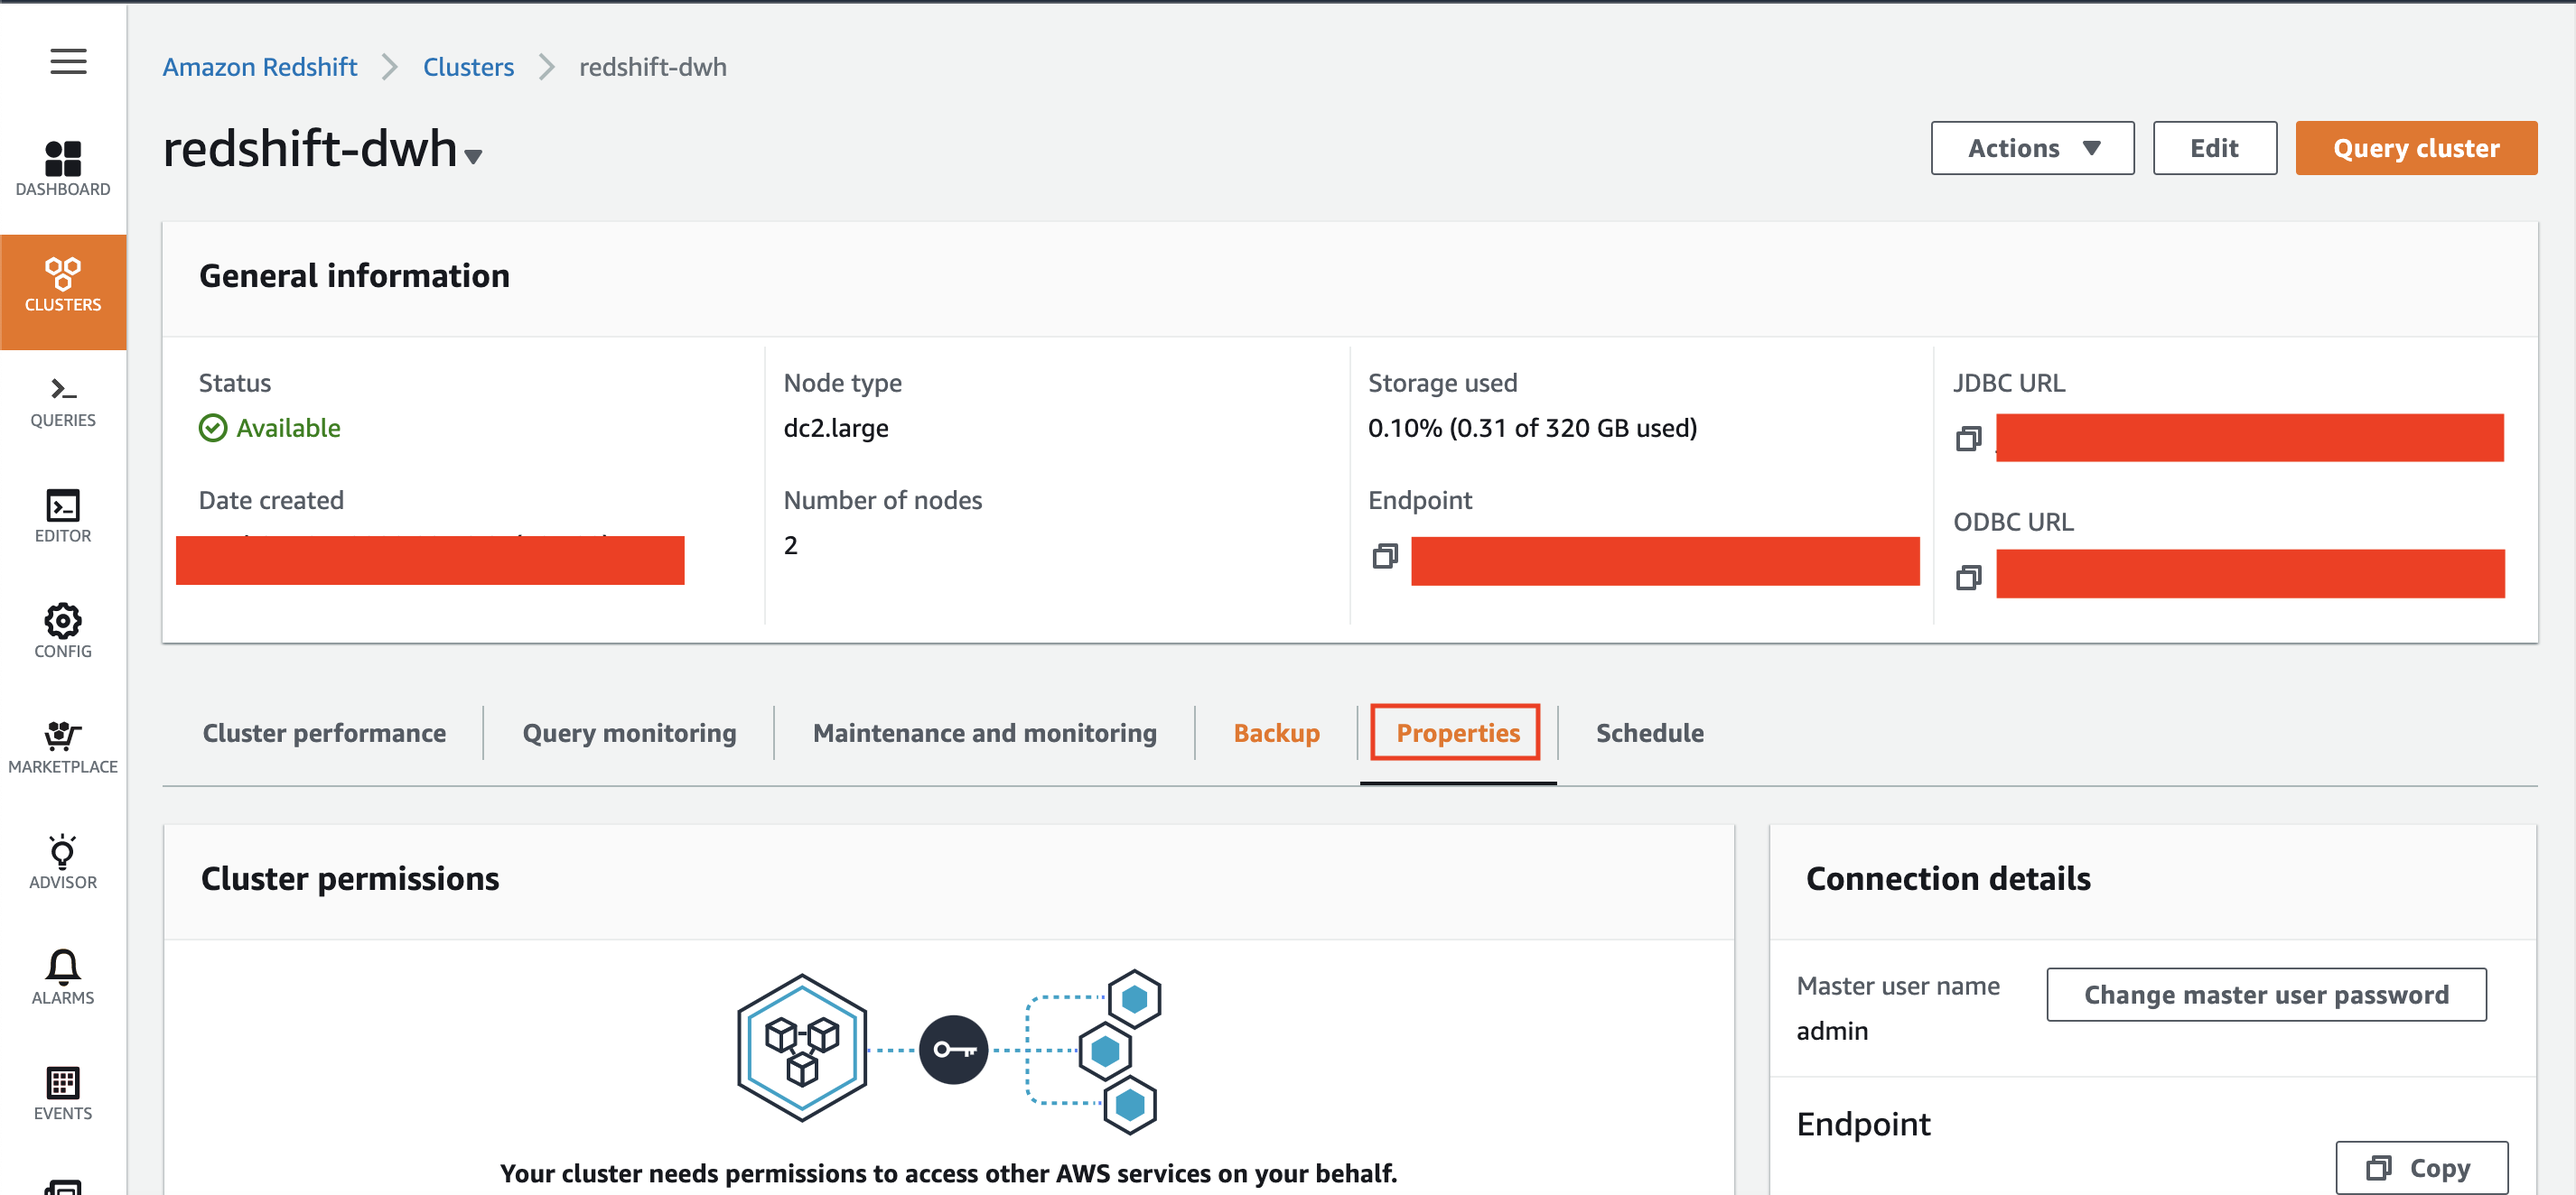
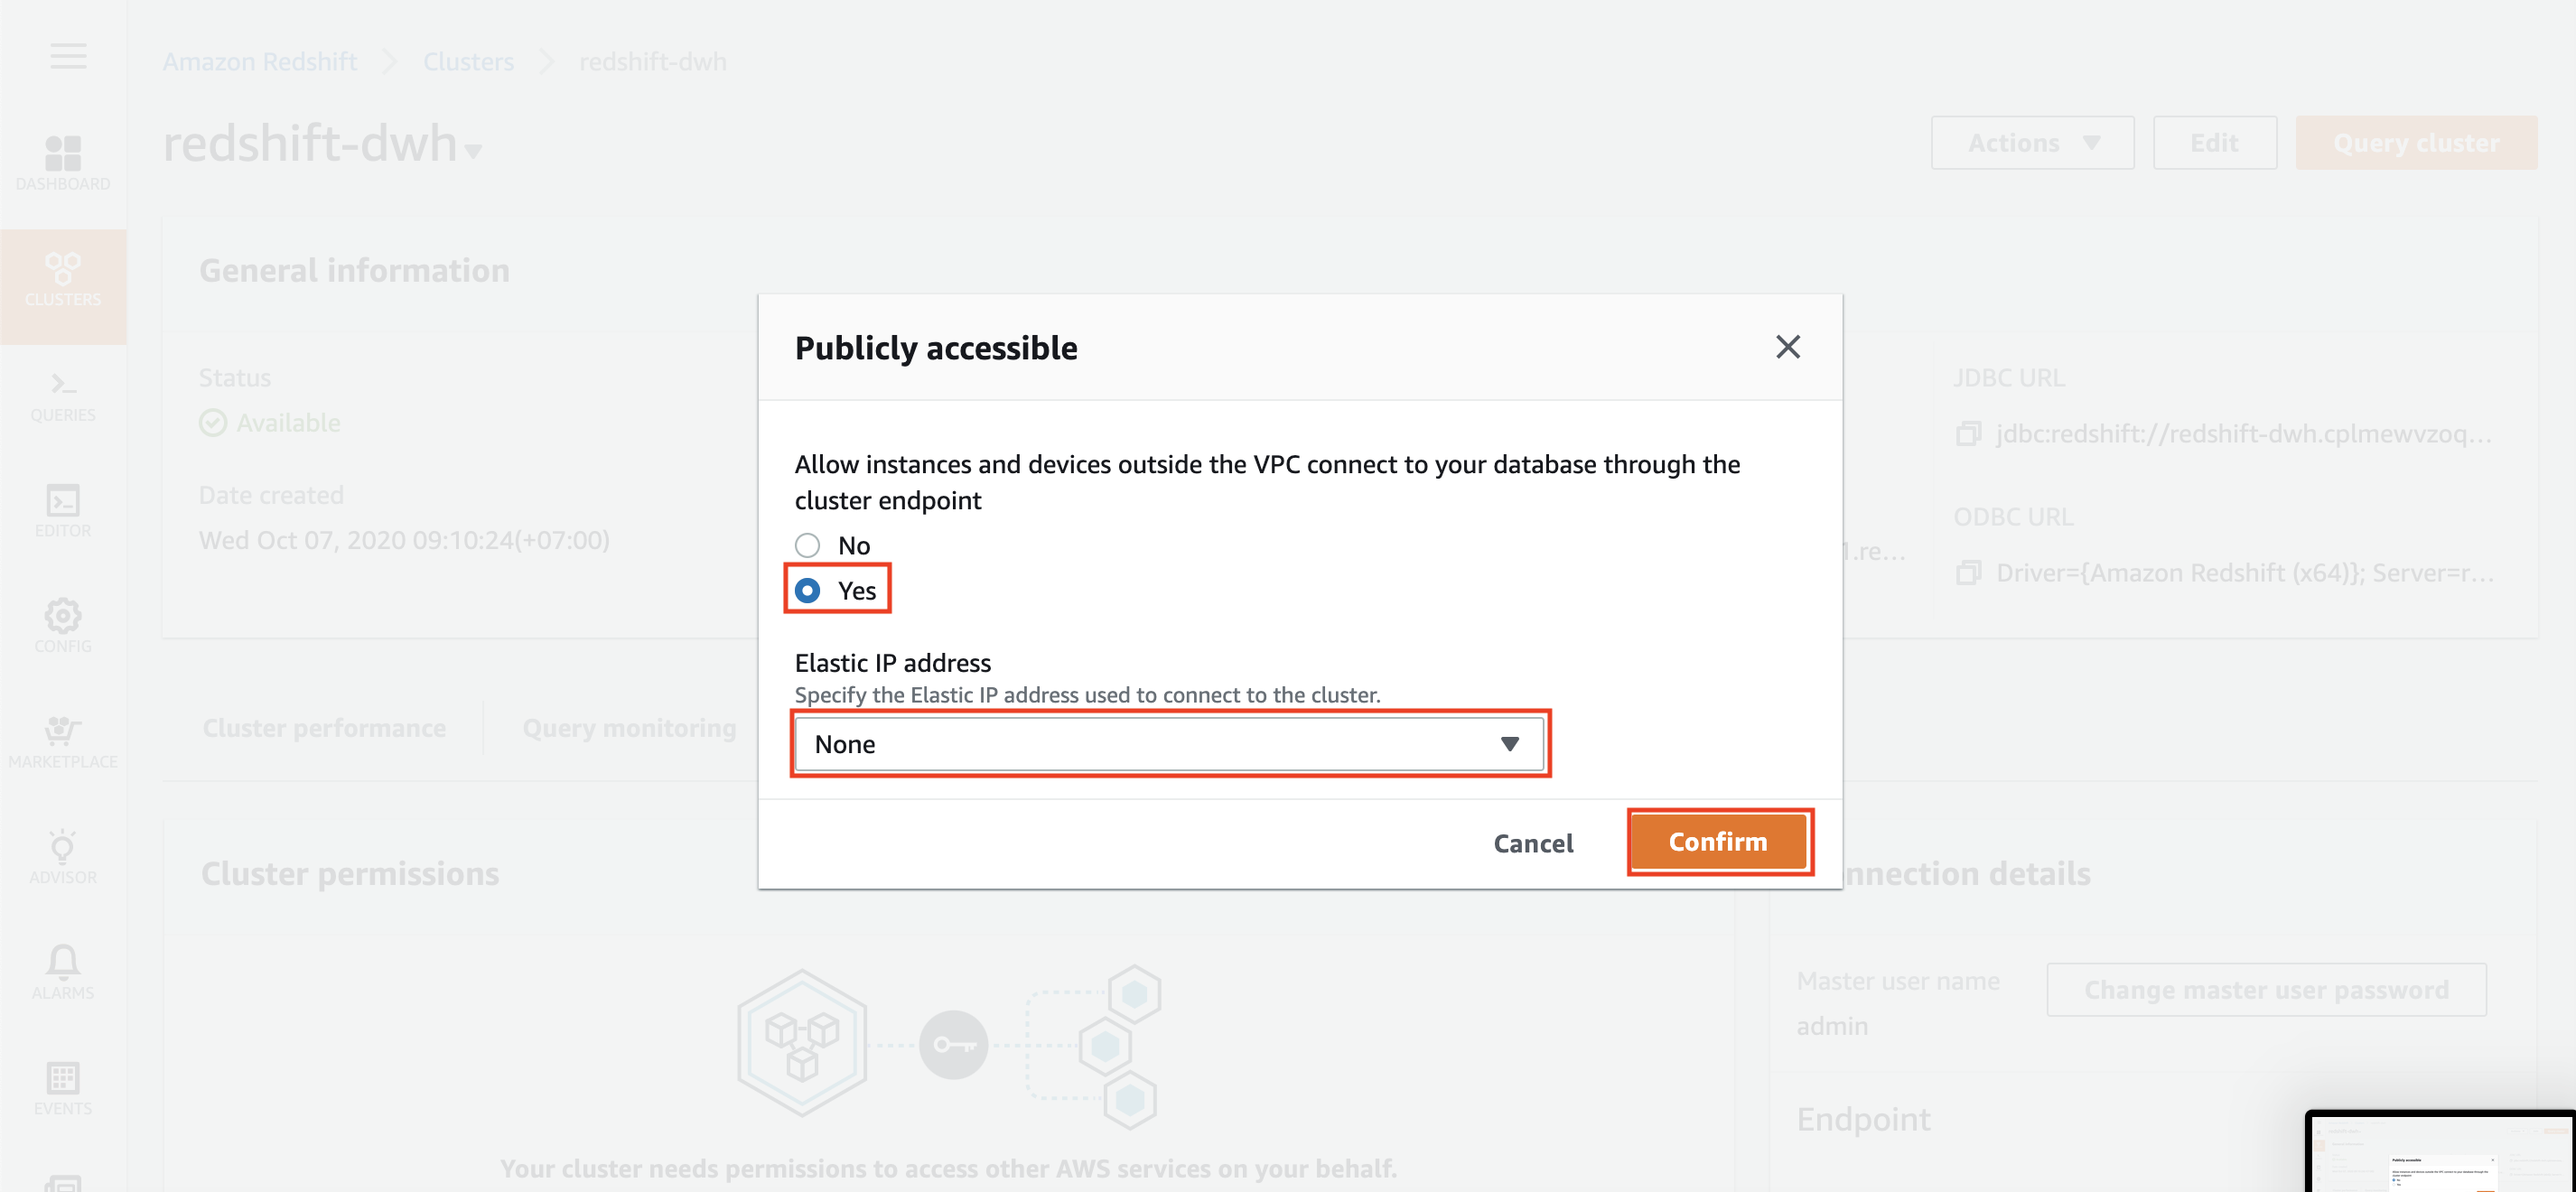
Finalize All

diff --git a/docs/Visualization/Visualize.md b/docs/Visualization/Visualize.md
@@ -42,38 +42,38 @@ Now, we need to setup the connection from redshift to quicksight so it will allo
     ![](../../images/Visualization/Visualize/25.png)
 26. click `Create security group` at the bottom page
 
+Then, we need to enable our data warehouse to be publicly available.
+
+27. in your data warehouse page, click `Actions` and click `Modify publicly accessible setting`
+    ![](../../images/Visualization/Visualize/27.png)
+28. in publicly accessible page, click `Yes`
+29. leave the Elastic IP address as `None`
+30. click `Confirm`
+    ![](../../images/Visualization/Visualize/30.png)
+
+It might take a few minutes to change the settings. your data warehouse will be in `Modifying` state
+    ![](../../images/Visualization/Visualize/30-2.png)
+
+once it's done, it will be in `Available` state.
+    ![](../../images/Visualization/Visualize/30-3.png)
+
 Now, we need to modify the security group of your redshift.
 
-27. go to [Redshift Console](https://console.aws.amazon.com/redshiftv2/home?region=us-east-1#dashboard)
-28. click `Clusters` at the left menu
-29. click your cluster name `redshift-dwh`
-    ![](../../images/Visualization/Visualize/29.png)
-30. click `Properties` tab
-    ![](../../images/Visualization/Visualize/30.png)
-31. in Network and security, click `edit`
-    ![](../../images/Visualization/Visualize/31.png)
-32. append the `Network and security` section
-33. in VPC security groups, type `Amazon-QuickSight-SG` and click it
+31. go to [Redshift Console](https://console.aws.amazon.com/redshiftv2/home?region=us-east-1#dashboard)
+32. click `Clusters` at the left menu
+33. click your cluster name `redshift-dwh`
     ![](../../images/Visualization/Visualize/33.png)
+34. click `Properties` tab
+    ![](../../images/Visualization/Visualize/34.png)
+35. in Network and security, click `edit`
+    ![](../../images/Visualization/Visualize/35.png)
+36. append the `Network and security` section
+37. in VPC security groups, type `Amazon-QuickSight-SG` and click it
+    ![](../../images/Visualization/Visualize/37.png)
 
 there will be 2 Security groups attach to your data warehouse, the `Amazon-QuickSight-SG` and your default security group.
 
-34. click `Modify cluster`
-
-Then, we need to enable our data warehouse to be publicly available.
-
-35. in your data warehouse page, click `Actions` and click `Modify publicly accessible setting`
-    ![](../../images/Visualization/Visualize/35.png)
-36. in publicly accessible page, click `Yes`
-37. leave the Elastic IP address as `None`
-38. click `Confirm`
-    ![](../../images/Visualization/Visualize/38.png)
-
-It might take a few minutes to change the settings. your data warehouse will be in `Modifying` state
-    ![](../../images/Visualization/Visualize/38-2.png)
-
-once it's done, it will be in `Available` state.
-    ![](../../images/Visualization/Visualize/38-3.png)
+38. click `Modify cluster`
 
 Now, your data warehouse can access the quicksight.
 

diff --git a/docs/DLAndDWH/ETL.md b/docs/DLAndDWH/ETL.md
@@ -84,18 +84,18 @@ usually, if you have logged in in not a long time, it will re-login automaticall
     ![](../../images/DLAndDWH/ETL/41.png)
 42. Please copy this query below to test it out
 ```
-    SELECT 
-        prod.productName,
-        SUM(odrdtl.quantityOrdered) AS SumQtyOrder,
-        COUNT(cust.customerName) AS TotalCustomer
-    FROM classicmodels.customers cust
-    JOIN classicmodels.orders odr ON cust.customerNumber = odr.customerNumber
-    JOIN classicmodels.orderdetails odrdtl ON odr.orderNumber = odrdtl.orderNumber
-    JOIN classicmodels.products prod ON odrdtl.productCode = prod.productCode
-    WHERE DATEDIFF(day, (SELECT MAX(orderDate) FROM classicmodels.orders), odr.orderDate) <= 90
-    GROUP BY 
-        prod.productName
-    ORDER BY SumQtyOrder DESC;
+SELECT 
+    prod.productName,
+    SUM(odrdtl.quantityOrdered) AS SumQtyOrder,
+    COUNT(cust.customerName) AS TotalCustomer
+FROM classicmodels.customers cust
+JOIN classicmodels.orders odr ON cust.customerNumber = odr.customerNumber
+JOIN classicmodels.orderdetails odrdtl ON odr.orderNumber = odrdtl.orderNumber
+JOIN classicmodels.products prod ON odrdtl.productCode = prod.productCode
+WHERE DATEDIFF(day, (SELECT MAX(orderDate) FROM classicmodels.orders), odr.orderDate) <= 90
+GROUP BY 
+    prod.productName
+ORDER BY SumQtyOrder DESC;
 ```
 
 it will display the trends of which product has the most orders from the past 3 months.

diff --git a/docs/DLAndDWH/DWH.md b/docs/DLAndDWH/DWH.md
@@ -179,7 +179,7 @@ Now, we need to create the schema and all tables.
 
 94. in query, type 
 ```
-    CREATE schema classicmodels;
+CREATE schema classicmodels;
 ```
 95. once the query is completed, change the schema to `classicmodels`
     ![](../../images/DLAndDWH/DWH/95.png)
